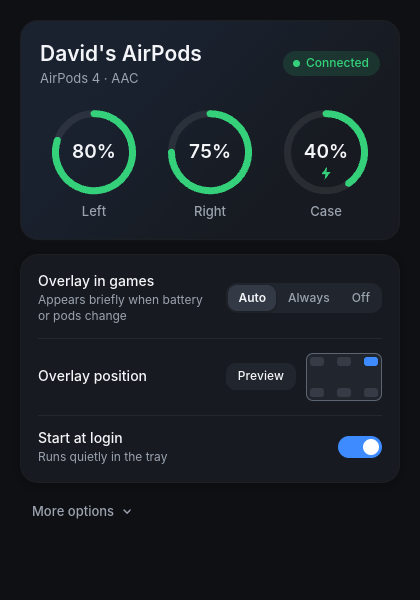
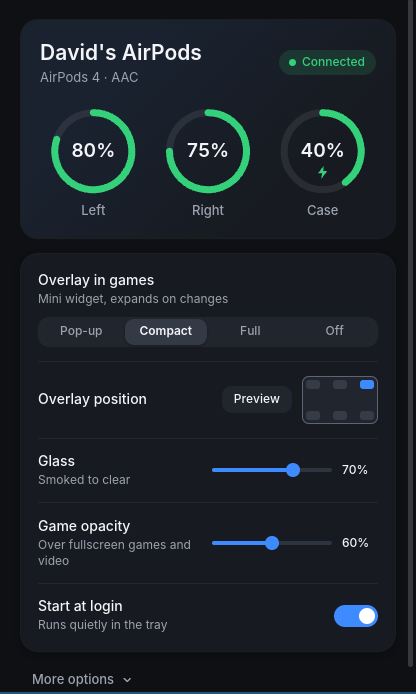
README for BazzitePods; settings layout; quieter unknown-command log
Claude-Session: https://claude.ai/code/session_01Nw15uJa3wJ9BwDHoBunZoh

diff --git a/linux-rust/src/ui/window.rs b/linux-rust/src/ui/window.rs
@@ -837,7 +837,7 @@ impl App {
     fn settings_card(&self) -> Element<'_, Message> {
         let s = &self.settings;
         let overlay_on = s.overlay_mode != OverlayMode::Off;
-        let mode = segmented(
+        let mode = segmented_wide(
             &[
                 ("Pop-up", OverlayMode::Auto),
                 ("Compact", OverlayMode::Compact),
@@ -849,12 +849,12 @@ impl App {
             Message::SetOverlayMode,
         );
         let col = column![
-            setting_row(
+            setting_block(
                 "Overlay in games",
                 Some(match s.overlay_mode {
-                    OverlayMode::Auto => "Appears briefly when battery or pods change",
-                    OverlayMode::Always => "Stays on screen while connected",
-                    OverlayMode::Compact => "Small widget; expands when something changes",
+                    OverlayMode::Auto => "Shows briefly on changes",
+                    OverlayMode::Always => "Always on screen",
+                    OverlayMode::Compact => "Mini widget, expands on changes",
                     OverlayMode::Off => "Never shown",
                 }),
                 mode,
@@ -882,12 +882,12 @@ impl App {
             divider(),
             setting_row(
                 "Glass",
-                Some("From smoked to clear liquid glass"),
+                Some("Smoked to clear"),
                 row![
                     slider(0.0..=1.0, s.overlay_glass, Message::SetOverlayGlass)
                         .step(0.05_f32)
                         .on_release(Message::CommitOverlaySliders)
-                        .width(Length::Fixed(140.0)),
+                        .width(Length::Fixed(120.0)),
                     text(format!("{}%", (s.overlay_glass * 100.0).round() as u32))
                         .size(12)
                         .font(style::INTER_MEDIUM)
@@ -899,13 +899,13 @@ impl App {
             ),
             divider(),
             setting_row(
-                "Opacity in fullscreen games",
-                Some("Solid on the desktop, see-through over games and videos"),
+                "Game opacity",
+                Some("Over fullscreen games and video"),
                 row![
                     slider(0.2..=1.0, s.overlay_opacity, Message::SetOverlayOpacity)
                         .step(0.05_f32)
                         .on_release(Message::CommitOverlaySliders)
-                        .width(Length::Fixed(140.0)),
+                        .width(Length::Fixed(120.0)),
                     text(format!("{}%", (s.overlay_opacity * 100.0).round() as u32))
                         .size(12)
                         .font(style::INTER_MEDIUM)
@@ -1202,6 +1202,19 @@ fn mode_tile<'a>(m: ListeningMode, selected: bool, enabled: bool) -> Element<'a,
         .into()
 }
 
+/// A setting whose control needs the full width: title and caption above it.
+fn setting_block<'a>(
+    title: &'a str,
+    caption: Option<&'a str>,
+    control: Element<'a, Message>,
+) -> Element<'a, Message> {
+    let mut col = column![text(title).size(14).font(style::INTER_MEDIUM)].spacing(2);
+    if let Some(c) = caption {
+        col = col.push(text(c).size(12).style(dim_text));
+    }
+    column![col, control].spacing(10).into()
+}
+
 fn setting_row<'a>(
     title: &'a str,
     caption: Option<&'a str>,
@@ -1232,15 +1245,42 @@ fn segmented<'a, T: Copy + PartialEq + 'a>(
     enabled: bool,
     msg: fn(T) -> Message,
 ) -> Element<'a, Message> {
+    segmented_impl(options, selected, enabled, msg, false)
+}
+
+/// Like [`segmented`], stretched to the full width with equal segments.
+fn segmented_wide<'a, T: Copy + PartialEq + 'a>(
+    options: &[(&'a str, T)],
+    selected: T,
+    enabled: bool,
+    msg: fn(T) -> Message,
+) -> Element<'a, Message> {
+    segmented_impl(options, selected, enabled, msg, true)
+}
+
+fn segmented_impl<'a, T: Copy + PartialEq + 'a>(
+    options: &[(&'a str, T)],
+    selected: T,
+    enabled: bool,
+    msg: fn(T) -> Message,
+    wide: bool,
+) -> Element<'a, Message> {
     let mut r = row![].spacing(2);
     for &(label, value) in options {
         let is_sel = value == selected;
+        let label = text(label).size(12).font(if is_sel {
+            style::INTER_SEMIBOLD
+        } else {
+            style::INTER_MEDIUM
+        });
+        let label = if wide {
+            label.width(Fill).align_x(Center)
+        } else {
+            label
+        };
         r = r.push(
-            button(text(label).size(12).font(if is_sel {
-                style::INTER_SEMIBOLD
-            } else {
-                style::INTER_MEDIUM
-            }))
+            button(label)
+            .width(if wide { Fill } else { Length::Shrink })
             .padding(Padding {
                 top: 5.0,
                 bottom: 5.0,
@@ -1251,7 +1291,8 @@ fn segmented<'a, T: Copy + PartialEq + 'a>(
             .on_press_maybe(enabled.then_some(msg(value))),
         );
     }
-    container(r).padding(2).style(style::segment_track).into()
+    let track = container(r).padding(2).style(style::segment_track);
+    if wide { track.width(Fill).into() } else { track.into() }
 }
 
 fn corner_picker<'a>(selected: OverlayPosition, enabled: bool) -> Element<'a, Message> {

diff --git a/linux-rust/src/bluetooth/aacp.rs b/linux-rust/src/bluetooth/aacp.rs
@@ -569,7 +569,8 @@ impl AACPManager {
                         hex::encode(&value)
                     );
                 } else {
-                    error!(
+                    // Newer firmware sends identifiers we don't know yet; harmless.
+                    debug!(
                         "Unknown Control Command identifier: {:#04x}",
                         identifier_byte
                     );

diff --git a/README.md b/README.md
@@ -1,134 +1,115 @@
-![LibrePods Banner](/imgs/banner.png)
+# BazzitePods
 
-[![XDA Thread](https://img.shields.io/badge/XDA_Forums-Thread-orange)](https://xdaforums.com/t/app-root-for-now-airpodslikenormal-unlock-apple-exclusive-airpods-features-on-android.4707585/)
-[![GitHub release (latest by date)](https://img.shields.io/github/v/release/kavishdevar/librepods)](https://github.com/kavishdevar/librepods/releases/latest)
-[![GitHub all releases](https://img.shields.io/github/downloads/kavishdevar/librepods/total)](https://github.com/kavishdevar/librepods/releases)
-[![GitHub stars](https://img.shields.io/github/stars/kavishdevar/librepods)](https://github.com/kavishdevar/librepods/stargazers)
-[![GitHub issues](https://img.shields.io/github/issues/kavishdevar/librepods)](https://github.com/kavishdevar/librepods/issues)
-[![GitHub license](https://img.shields.io/github/license/kavishdevar/librepods)](https://github.com/kavishdevar/librepods/blob/main/LICENSE)
-[![GitHub contributors](https://img.shields.io/github/contributors/kavishdevar/librepods)](https://github.com/kavishdevar/librepods/graphs/contributors)
+AirPods on Linux, the way they work on an iPhone. You install it once, and from then on it
+just works: it starts with your session, finds your AirPods, shows accurate battery levels
+for each pod and the case, and shows a small glass overlay over your games.
 
+Built for [Bazzite](https://bazzite.gg) (KDE Plasma, Wayland), and it works on any Flatpak
+desktop. BazzitePods is a modified fork of [LibrePods](https://github.com/librepods-org/librepods)
+(see [Credits and licence](#credits-and-licence)).
 
-## What is LibrePods?
+<p align="center">
+  <img src="linux-rust/docs/screenshots/main-window.png" width="340" alt="BazzitePods main window">
+</p>
 
-LibrePods unlocks Apple's exclusive AirPods features on non-Apple devices. Get access to noise control modes, adaptive transparency, ear detection, hearing aid, customized transparency mode, battery status, and more - all the premium features you paid for but Apple locked to their ecosystem.
+## Install
 
-## Device Compatibility
+Run this in a terminal (Konsole). It needs no sudo, and nothing is layered into the system
+image:
 
-| Status | Device                | Features                                                   |
-| ------ | --------------------- | ---------------------------------------------------------- |
-| ✅      | AirPods Pro (2nd Gen) | Fully supported and tested                                 |
-| ✅      | AirPods Pro (3rd Gen) | Fully supported (except heartrate monitoring)              |
-| ⚠      | Other AirPods models  | Basic features (battery status, ear detection) should work |
+```bash
+curl -fsSL https://raw.githubusercontent.com/DaBarkle/bazzitepods/bazzite/linux-rust/packaging/install-bazzite.sh | bash
+```
 
-Most features should work with any AirPods. Currently, I've only got AirPods Pro 2 to test with.
+That's all. BazzitePods appears in your system tray and starts by itself at every login.
+Connect your AirPods in **System Settings → Bluetooth** as usual and the battery levels show
+up within a few seconds.
 
-## Key Features
+- To install a bundle you already downloaded, run `... | bash -s -- ~/Downloads/BazzitePods.flatpak`.
+- To uninstall, run `... | bash -s -- --uninstall`.
 
-- **Noise Control Modes**: Easily switch between noise control modes without having to reach out to your AirPods to long press
-- **Ear Detection**: Controls your music automatically when you put your AirPods in or take them out, and switch to phone speaker when you take them out
-- **Battery Status**: Accurate battery levels
-- **Head Gestures**: Answer calls just by nodding your head
-- **Conversational Awareness**: Volume automatically lowers when you speak
-- **Hearing Aid\***
-- **Customize Transparency Mode\***
-- **Multi-device connectivity\*** (upto 2 devices)
-- **Other customizations**:
-  - Rename your AirPods
-  - Customize long-press actions
-  - Few accessibility features
-  - And more!
+## Features
 
-See our [pinned issue](https://github.com/kavishdevar/librepods/issues/20) for a complete feature list and roadmap.
+- **Accurate battery for left, right and case**, including charging state. A pod that drops
+  out keeps its last value, dimmed, instead of showing 0%. The case shows its last known level
+  after the pods come out. Like on an iPhone, the case reports its level while at least one pod
+  is inside it.
+- **Game overlay** with four modes:
+  - **Compact** (default): a small widget that expands to the full card when something
+    changes, such as a pod going in or out, charging, or low battery.
+  - **Pop-up**: appears briefly on changes, then goes away.
+  - **Full**: always shows the full card while connected.
+  - **Off**.
+- **Liquid glass.** A **Glass** slider goes from smoked to clear glass. A **Game opacity**
+  slider makes the overlay see-through only while a fullscreen game or video is in front, and
+  it stays solid on the desktop. Text and icons have a built-in contrast halo, so they stay
+  readable on bright and dark scenes alike.
+- **Keeps audio working.** It fixes the classic "walked away, came back, connected but
+  silent" problem. It never leaves the audio card switched off, renegotiates A2DP when needed,
+  restores your default output, and reconnects the AirPods by itself when they come back in
+  range.
+- **Controls.** Noise control (when your model has it), ear detection with media pause and
+  resume, conversational awareness and renaming. Only the controls your model supports are
+  shown.
+- **Hands-off.** Survives Bluetooth restarts, adapter hot-plug and suspend/resume. It never
+  turns Bluetooth on by itself. Launching it a second time just opens the window.
 
-## Platform Support
+| Full overlay | Compact widget |
+| --- | --- |
+| ![Full overlay](linux-rust/docs/screenshots/overlay.png) | ![Compact overlay](linux-rust/docs/screenshots/overlay-compact.png) |
 
-### Linux
+## Safe with anti-cheat
 
-The Linux version runs as a system tray app. Connect your AirPods and enjoy:
+The overlay is an ordinary desktop surface drawn by its own process on the compositor's
+overlay layer (wlr-layer-shell). It doesn't touch games:
 
-- Battery monitoring
-- Automatic Ear detection
-- Conversational Awareness
-- Switching Noise Control modes
-- Device renaming
+- no Vulkan or OpenGL layers, no `LD_PRELOAD`, no injection or hooking
+- no ptrace, no reading other processes' memory or `/proc`
+- no screen capture: the overlay never reads what's behind it
+- click-through, and it never takes keyboard focus
 
-> [!NOTE]
-> Work in progress, but core functionality is stable and usable.
+Fullscreen detection asks KWin (through a small KWin script) whether the active window is
+fullscreen. It's a question to the window manager, not a look at the game.
 
-For installation and detailed info, see the [Linux README](/linux/README.md).
+## Supported setups
 
-### Android
+| Desktop | Overlay | Battery, controls, tray |
+| --- | --- | --- |
+| KDE Plasma 6 (Bazzite default) | Full, with smart fullscreen transparency | Yes |
+| Other wlr-layer-shell compositors (Hyprland, Sway, …) | Yes (solid; no fullscreen detection) | Yes |
+| GNOME | Desktop notifications instead | Yes |
+| Steam Gaming Mode (gamescope) | Not available | Yes |
 
-#### Screenshots
+**AirPods:** AirPods 4 (with and without noise cancellation), AirPods Pro 2 and 3, AirPods 3,
+AirPods Max and others. Battery and ear detection work on all of them. Feature controls follow
+each model's abilities.
 
-|                                                                                        |                                                   |                                                                             |
-| -------------------------------------------------------------------------------------- | ------------------------------------------------- | --------------------------------------------------------------------------- |
-| ![Settings 1](/android/imgs/settings-1.png)                                            | ![Settings 2](/android/imgs/settings-2.png)       | ![Debug Screen](/android/imgs/debug.png)                                    |
-| ![Battery Notification and QS Tile for NC Mode](/android/imgs/notification-and-qs.png) | ![Popup](/android/imgs/popup.png)                 | ![Head Tracking and Gestures](/android/imgs/head-tracking-and-gestures.png) |
-| ![Long Press Configuration](/android/imgs/long-press.png)                              | ![Widget](/android/imgs/widget.png)               | ![Customizations 1](/android/imgs/customizations-1.png)                     |
-| ![Customizations 2](/android/imgs/customizations-2.png)                                | ![accessibility](/android/imgs/accessibility.png) | ![transparency](/android/imgs/transparency.png)                             |
-| ![hearing-aid](/android/imgs/hearing-aid.png)                                          | ![hearing-test](/android/imgs/hearing-test.png)   | ![hearing-aid-adjustments](/android/imgs/hearing-aid-adjustments.png)       |
+## Testing and development
 
+- Hardware test steps: [`linux-rust/docs/TESTING.md`](linux-rust/docs/TESTING.md)
+- Design and rules: [`linux-rust/docs/ARCHITECTURE.md`](linux-rust/docs/ARCHITECTURE.md)
+- Build: `cd linux-rust && cargo build --release`, or `just flatpak` for the Flatpak.
 
-here's a very unprofessional demo video
+This repository still contains upstream LibrePods' Android app (`android/`) and its older Qt
+Linux app (`linux/`). BazzitePods is the Rust app in `linux-rust/`.
 
-https://github.com/user-attachments/assets/43911243-0576-4093-8c55-89c1db5ea533
+## Credits and licence
 
-#### Root Requirement
+BazzitePods is a modified version of **LibrePods** by Kavish Devar and the LibrePods
+contributors (<https://github.com/librepods-org/librepods>). The AirPods protocol work,
+the Bluetooth core and much of the device logic come from LibrePods. This fork adds the
+Bazzite packaging, the overlay, the audio-recovery and battery logic, and the new interface.
 
-> [!CAUTION]
-> **You must have a rooted device with Xposed to use LibrePods on Android.** This is due to a [bug in the Android Bluetooth stack](https://issuetracker.google.com/issues/371713238). Please upvote the issue by clicking the '+1' icon on the IssueTracker page.
-> 
-> There are **no exceptions** to the root requirement until Google merges the fix.
-
-Until then, you must xposed. I used to provide a non-xposed method too, where the module used overlayfs to replace the bluetooth library with a locally patched one, but that was broken due to how various devices handled overlayfs and a patched library. With xposed, you can also enable the DID hook enabling a few extra features.
-
-## Bluetooth DID (Device Identification) Hook
-
-Turns out, if you change the manufacturerid to that of Apple, you get access to several special features!
-
-### Multi-device Connectivity
-
-Upto two devices can be simultaneously connected to AirPods, for audio and control both. Seamless connection switching. The same notification shows up on Apple device when Android takes over the AirPods as if it were an Apple device ("Move to iPhone"). Android also shows a popup when the other device takes over.
-
-### Accessibility Settings and Hearing Aid
-
-Accessibility settings like customizing transparency mode (amplification, balance, tone, conversation boost, and ambient noise reduction), and loud sound reduction can be configured.
-
-All hearing aid customizations can be done from Android, including setting the audiogram result. The app doesn't provide a way to take a hearing test because it requires much more precision. It is much better to use an already available audiogram result. 
-
-To enable these features, enable App Settings -> `act as Apple Device`.
-
-#### A few notes
-
-- Due to recent AirPods' firmware upgrades, you must enable `Off listening mode` to switch to `Off`. This is because in this mode, louds sounds are not reduced.
-
-- If you have take both AirPods out, the app will automatically switch to the phone speaker. But, Android might keep on trying to connect to the AirPods because the phone is still connected to them, just the A2DP profile is not connected. The app tries to disconnect the A2DP profile as soon as it detects that Android has connected again if they're not in the ear.
-
-- When renaming your AirPods through the app, you'll need to re-pair them with your phone for the name change to take effect. This is a limitation of how Bluetooth device naming works on Android.
-
-- If you want the AirPods icon and battery status to show in Android Settings app, install the app as a system app by using the root module.
-
-## Star History
-
-[![Star History Chart](https://api.star-history.com/svg?repos=kavishdevar/librepods&type=Date)](https://star-history.com/#kavishdevar/librepods&Date)
-
-# License
-
-LibrePods - AirPods liberated from Apple’s ecosystem
+BazzitePods - AirPods on Bazzite and other Linux desktops
 Copyright (C) 2025 LibrePods contributors
+Copyright (C) 2026 BazzitePods contributors
 
-This program is free software: you can redistribute it and/or modify
-it under the terms of the GNU Affero General Public License as published
-by the Free Software Foundation, either version 3 of the License.
+This program is free software: you can redistribute it and/or modify it under the terms of
+the GNU Affero General Public License as published by the Free Software Foundation, version 3
+of the License. It is distributed in the hope that it will be useful, but WITHOUT ANY
+WARRANTY; without even the implied warranty of MERCHANTABILITY or FITNESS FOR A PARTICULAR
+PURPOSE. See the [GNU Affero General Public License](LICENSE) for more details.
 
-This program is distributed in the hope that it will be useful,
-but WITHOUT ANY WARRANTY; without even the implied warranty of
-MERCHANTABILITY or FITNESS FOR A PARTICULAR PURPOSE.  See the
-GNU Affero General Public License for more details.
-
-You should have received a copy of the GNU Affero General Public License
-along with this program over [here](/LICENSE). If not, see <https://www.gnu.org/licenses/>.
-
-All trademarks, logos, and brand names are the property of their respective owners. Use of them does not imply any affiliation with or endorsement by them. All AirPods images, symbols, and the SF Pro font are the property of Apple Inc.
+BazzitePods is not affiliated with, endorsed by or sponsored by Apple Inc. AirPods, iPhone
+and other Apple marks are trademarks of Apple Inc. All other trademarks belong to their
+respective owners. The interface uses the Inter typeface (SIL Open Font License).
